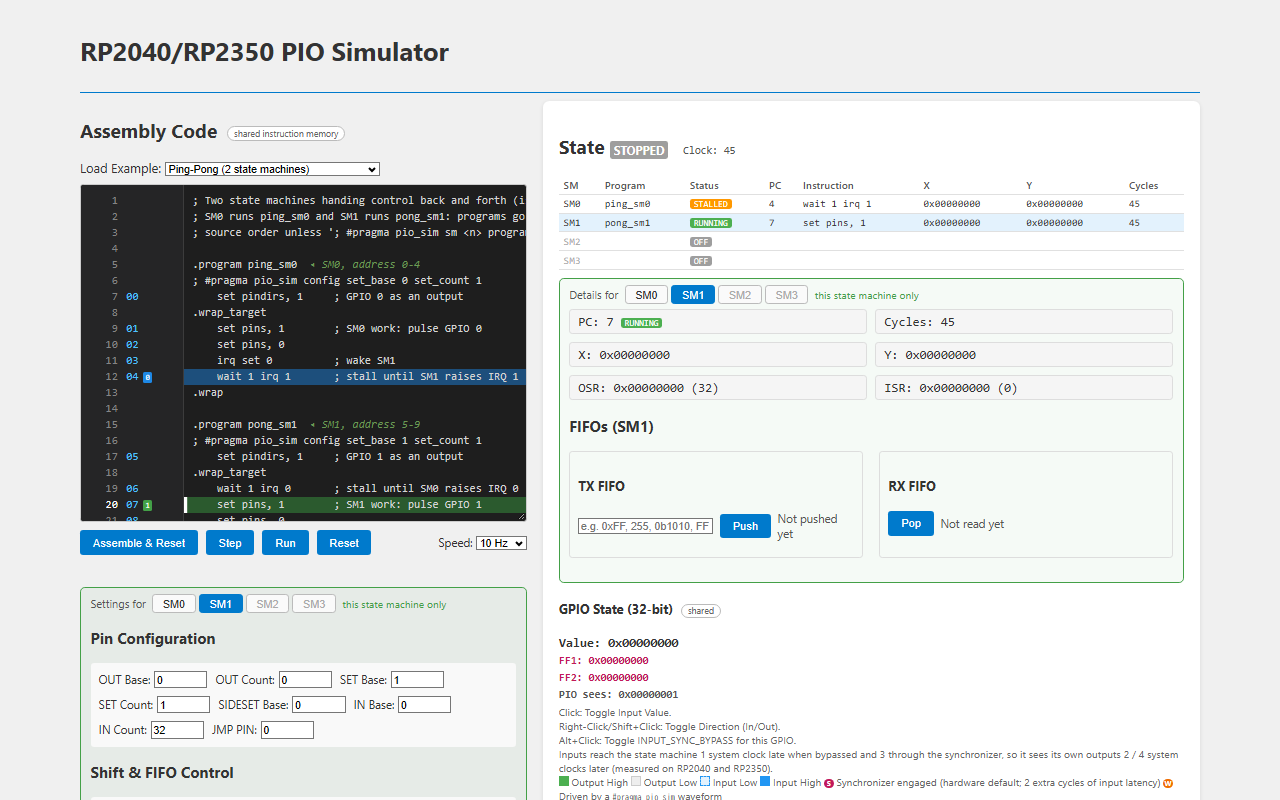
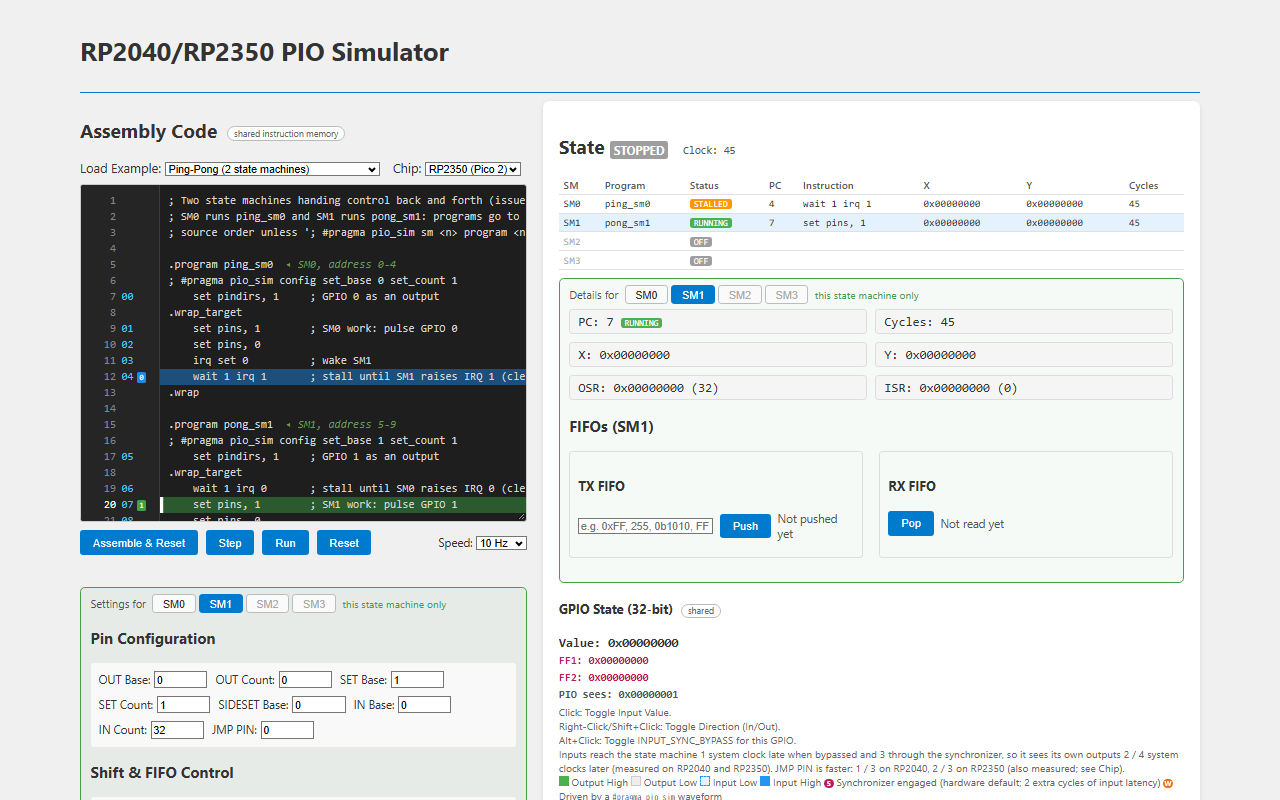
Chip setting for JMP PIN timing; narrower editor gutter
Measured on a Pico and a Pico 2: JMP PIN sees a pin sooner than the other
inputs, and differently per chip. A state machine sees its own output
1 / 3 system clocks later with JMP PIN on RP2040 and 2 / 3 on RP2350
(bypassed / synchronised), against 2 / 4 for IN PINS, WAIT PIN, WAIT
GPIO and WAIT JMPPIN on both. Found when issue #3's JMP PIN watcher
matched on RP2350 but not on RP2040.

- Emulator: `chip` ('rp2040' | 'rp2350'); JMP PIN reads its own input
  path with the measured lag.
- `; #pragma pio_sim chip rp2040|rp2350` and a Chip control next to
  Load Example; RP2350-only features warn when RP2040 is chosen.
- The PC mark column in the editor gutter is as wide as the number of
  running state machines needs, and none for one; the code starts
  further left.
- HARDWARE_VERIFICATION.md: results of the 44 / 53 cases now run, and
  the JMP PIN finding. README and screenshot updated.

diff --git a/pio_emulator.js b/pio_emulator.js
@@ -33,6 +33,16 @@ const PIO_SM_CONFIG_DEFAULTS = {
     clkDiv: 1           // CLKDIV, 16.8 fixed point
 };
 
+// System clocks from a change on the pad to JMP PIN seeing it, with the
+// input synchroniser bypassed / engaged. Measured on a Pico and a Pico 2 (a
+// state machine sees its own output 1 / 3 clocks later with JMP PIN on
+// RP2040, 2 / 3 on RP2350). The other inputs (IN PINS, WAIT PIN/GPIO/
+// JMPPIN, MOV x, PINS) lag 1 / 3 on both chips, so 2 / 4 for own outputs.
+const PIO_JMP_PIN_LAG = {
+    rp2040: { bypassed: 0, synced: 2 },
+    rp2350: { bypassed: 1, synced: 2 }
+};
+
 class PioStateMachine {
     constructor(block, index) {
         this.block = block;
@@ -100,9 +110,12 @@ class PioStateMachine {
     // With a fractional divider it can vary by one cycle with the phase.
     inputLatency() {
         const c = sysclks => Math.max(1, Math.ceil(sysclks / this.clkDiv));
+        const jmp = PIO_JMP_PIN_LAG[this.block.chip];
         return {
             external: { bypassed: c(1), synced: c(3) },
-            own: { bypassed: c(2), synced: c(4) }
+            own: { bypassed: c(2), synced: c(4) },
+            // JMP PIN reads the pin through a shorter path (measured).
+            jmpOwn: { bypassed: c(jmp.bypassed + 1), synced: c(jmp.synced + 1) }
         };
     }
 
@@ -330,7 +343,7 @@ class PioStateMachine {
                 return taken;
             }
             case 'x!=y': return this.x !== this.y;
-            case 'pin': return this.getPinState(this.jmpPin) === 1;
+            case 'pin': return this.block.getJmpPinState(this.jmpPin) === 1;
             case '!osre': return this.osrCount < this.effPullThresh();
             default: return false;
         }
@@ -637,6 +650,9 @@ class PioEmulator {
         // INPUT_SYNC_BYPASS resets to 0: every input passes through the
         // 2-flipflop synchroniser. 1 = bypassed for that GPIO.
         this.inputSyncBypass = 0;
+        // Which chip's timing to follow: 'rp2040' or 'rp2350'. They differ in
+        // how fast JMP PIN sees a pin (PIO_JMP_PIN_LAG).
+        this.chip = 'rp2350';
         this.sms = [0, 1, 2, 3].map(i => new PioStateMachine(this, i));
         this.reset();
     }
@@ -655,6 +671,7 @@ class PioEmulator {
         this.inputsFf1 = 0;
         this.inputsFf2 = 0;
         this.inputsSeen = 0;
+        this.jmpPinSeen = 0;    // what JMP PIN reads (a shorter path)
 
         this.history = [];
         this.irq = 0;
@@ -823,6 +840,13 @@ class PioEmulator {
         return (this.inputsSeen >>> (pin & 0x1F)) & 1;
     }
 
+    // What JMP PIN observes. Measured, it lags the pad less than the other
+    // inputs do, and differently on each chip (PIO_JMP_PIN_LAG). WAIT
+    // JMPPIN, despite the name, uses the ordinary input path.
+    getJmpPinState(pin) {
+        return (this.jmpPinSeen >>> (pin & 0x1F)) & 1;
+    }
+
     // Write `count` bits of `data` to pin levels or directions starting at
     // GPIO `base`, wrapping after GPIO 31 (§11.5.6). State machines run in
     // number order within a cycle, so when several write the same pin on
@@ -938,6 +962,8 @@ class PioEmulator {
         this.inputsFf1 = this.padAt(tn - 1);
         this.inputsFf2 = this.padAt(tn - 2);
         this.inputsSeen = ((this.padAt(tn - 1) & bypass) | (this.padAt(tn - 3) & ~bypass)) >>> 0;
+        const jmp = PIO_JMP_PIN_LAG[this.chip] || PIO_JMP_PIN_LAG.rp2350;
+        this.jmpPinSeen = ((this.padAt(tn - jmp.bypassed) & bypass) | (this.padAt(tn - jmp.synced) & ~bypass)) >>> 0;
 
         this.clock++;
         // Show the level the next step will see.

diff --git a/main.js b/main.js
@@ -53,6 +53,47 @@ const cfgFifoMode = document.getElementById('cfg-fifo-mode');
 const cfgClkDiv = document.getElementById('cfg-clkdiv');
 const cfgClkDivNote = document.getElementById('cfg-clkdiv-note');
 const regSysclk = document.getElementById('reg-sysclk');
+const cfgChip = document.getElementById('cfg-chip');
+const CHIP_KEY = 'pio_sim_chip_v1';
+try {
+    const savedChip = localStorage.getItem(CHIP_KEY);
+    if (savedChip === 'rp2040' || savedChip === 'rp2350') cfgChip.value = savedChip;
+} catch (e) {
+    // localStorage unavailable — keep the default.
+}
+emulator.chip = cfgChip.value;
+cfgChip.addEventListener('change', () => {
+    emulator.chip = cfgChip.value;
+    try { localStorage.setItem(CHIP_KEY, cfgChip.value); } catch (e) { /* ignore */ }
+    if (lastProgram) showWarnings(lastProgram);
+    updateUI();
+});
+
+// Features the RP2040 does not have, in what was assembled.
+function rp2350Only(program) {
+    const found = new Set();
+    for (const instr of program.memory) {
+        if (!instr) continue;
+        if (instr.prev || instr.next) found.add('irq prev/next');
+        if (instr.type === 'WAIT' && instr.source === 'jmppin') found.add('wait jmppin');
+        if (instr.type === 'MOV' && instr.dest === 'pindirs') found.add('mov pindirs');
+        if (instr.type === 'MOV' && (instr.dest === 'rxfifo' || instr.src === 'rxfifo')) found.add('mov rxfifo[]');
+    }
+    for (const c of program.smConfigs) {
+        if (!c) continue;
+        if (c.statusSel === 2) found.add('mov status on an IRQ flag');
+        if (['txput', 'txget', 'putget'].includes(c.fifoMode)) found.add(`.fifo ${c.fifoMode}`);
+        if (c.inCount !== undefined && c.inCount !== 32) found.add('IN_COUNT');
+    }
+    return [...found];
+}
+
+function showWarnings(program) {
+    const lines = program.warnings.map(w => `Line ${w.line}: warning: ${w.message}`);
+    const only = cfgChip.value === 'rp2040' ? rp2350Only(program) : [];
+    if (only.length) lines.push(`warning: Chip is RP2040, but the program uses RP2350 features: ${only.join(', ')}`);
+    warningMessage.textContent = lines.join('\n');
+}
 const latencyNote = document.getElementById('latency-note');
 const cfgInShiftDir = document.getElementById('cfg-in-shift-dir');
 const cfgOutShiftDir = document.getElementById('cfg-out-shift-dir');
@@ -566,6 +607,7 @@ function updateClkDivNote() {
     const who = multiSm() ? `SM${sel}, ` : '';
     const text = `With ${who}clock div ${sm.clkDiv}: an input change is seen ${l.external.bypassed} / ${l.external.synced} ` +
         `cycles later (bypassed / synchronized), the program's own output ${l.own.bypassed} / ${l.own.synced} cycles later` +
+        ` (JMP PIN: ${l.jmpOwn.bypassed} / ${l.jmpOwn.synced})` +
         (frac ? ' (± 1 with a fractional divider)' : '') + '.';
     cfgClkDivNote.textContent = text;
     cfgClkDivNote.style.display = '';
@@ -665,7 +707,11 @@ function assembleAndReset() {
         }
         // Addresses in the gutter; breakpoints stay on their source lines.
         codeView.setAssembly(program);
-        warningMessage.textContent = program.warnings.map(w => `Line ${w.line}: warning: ${w.message}`).join('\n');
+        if (program.chip) {
+            cfgChip.value = program.chip;
+            emulator.chip = program.chip;
+        }
+        showWarnings(program);
         codeView.setWarnings(program.warnings.map(w => w.line));
 
         applyProgramConfig(program);

diff --git a/index.html b/index.html
@@ -191,6 +191,7 @@
                     <code>status_sel</code> (<code>tx</code>, <code>rx</code>, <code>irq</code>), <code>status_n</code>,
                     <code>fifo</code> (<code>txrx</code>, <code>tx</code>, <code>rx</code>, <code>txput</code>, <code>txget</code>, <code>putget</code>),
                     <code>clkdiv</code> (1-65535, e.g. <code>2.5</code>).
+                    <code>; #pragma pio_sim chip rp2040</code> (or <code>rp2350</code>) selects the chip whose timing to follow.
                     Settings the source does not name keep whatever the controls show.
                     Before the first <code>.program</code> a <code>config</code> line applies to every state machine;
                     inside a program, to the state machines running it; <code>config sm &lt;n&gt; ...</code> to that one only.
@@ -223,6 +224,11 @@
                         <option value="irq_handshake">IRQ Handshake (#pragma pio_sim irq)</option>
                         <option value="pingpong">Ping-Pong (2 state machines)</option>
                         <option value="shared_program">One program on 3 state machines (irq rel)</option>
+                    </select>
+                    <label style="margin-left: 12px;" title="Whose timing to follow. The chips differ in how fast JMP PIN sees a pin (measured). A '; #pragma pio_sim chip rp2040' line in the source sets this on Assemble.">Chip:</label>
+                    <select id="cfg-chip">
+                        <option value="rp2350">RP2350 (Pico 2)</option>
+                        <option value="rp2040">RP2040 (Pico)</option>
                     </select>
                 </div>
                 <textarea id="code-editor" spellcheck="false">
@@ -461,6 +467,7 @@
                         Alt+Click: Toggle INPUT_SYNC_BYPASS for this GPIO.<br>
                         Inputs reach the state machine 1 system clock late when bypassed and 3 through the
                         synchronizer, so it sees its own outputs 2 / 4 system clocks later (measured on RP2040 and RP2350).
+                        JMP PIN is faster: 1 / 3 on RP2040, 2 / 3 on RP2350 (also measured; see Chip).
                         <span id="latency-note"></span>
                         <br>
                         <span

diff --git a/pio_assembler.js b/pio_assembler.js
@@ -154,6 +154,7 @@ class PioAssembler {
         this.globalSymbols = new Map(); // name -> { isLabel, expr, line, resolving }
         this.globalPragmas = [];
         this.warnings = [];             // [{ line, message }]: assembled anyway
+        this.chip = null;               // from `; #pragma pio_sim chip`
         this.states = [];               // finished programs
         this.inProgram = false;
         this.defaultPioVersion = 1;
@@ -1003,6 +1004,7 @@ class PioAssembler {
             stimuli,
             irqEvents,
             warnings: this.warnings,
+            chip: this.chip,
             programMap: result[0].programMap,
             programs: result,
             memory,
@@ -1238,8 +1240,18 @@ class PioAssembler {
             case 'irq': this.pragmaIrq(tokens, out.irqEvents); break;
             case 'config': this.pragmaConfig(tokens, out.config, out.configSeen, out); break;
             case 'sm': this.pragmaSm(tokens, out.smAssign); break;
+            case 'chip': {
+                // chip rp2040|rp2350: whose timing to follow.
+                const chip = (tokens[1] || '').toLowerCase();
+                if (!['rp2040', 'rp2350'].includes(chip) || tokens.length !== 2) {
+                    throw new Error(`#pragma pio_sim: expected 'chip rp2040' or 'chip rp2350'`);
+                }
+                if (this.chip && this.chip !== chip) throw new Error(`#pragma pio_sim: chip given twice`);
+                this.chip = chip;
+                break;
+            }
             default:
-                throw new Error(`#pragma pio_sim: unknown pragma '${tokens[0] || ''}' (expected pin, irq, config or sm)`);
+                throw new Error(`#pragma pio_sim: unknown pragma '${tokens[0] || ''}' (expected pin, irq, config, sm or chip)`);
         }
     }
 

diff --git a/code_view.js b/code_view.js
@@ -134,6 +134,10 @@ class CodeView {
     // Each running state machine's PC, and the selected one's.
     setPcs(marks, selectedSm, follow) {
         this.pcMarks = marks.map(m => ({ sm: m.sm, line: this.addrToLine.get(m.pc) })).filter(m => m.line !== undefined);
+        // The PC mark column is as wide as the marks it may need: one per
+        // running state machine, none with a single one.
+        const slots = marks.length > 1 ? marks.length : 0;
+        this.gutter.style.setProperty('--pcs-width', slots ? `${slots * 12 + 4}px` : '0px');
         const sel = this.pcMarks.find(m => m.sm === selectedSm);
         this.pcLine = sel ? sel.line : null;
         this.renderMarks();

diff --git a/style.css b/style.css
@@ -105,19 +105,20 @@ header {
 }
 
 .g-line {
-    width: 30px;
+    width: 28px;
     text-align: right;
 }
 
 .g-addr {
-    width: 26px;
+    width: 22px;
     text-align: right;
     color: #4fc1ff;
 }
 
 .g-pcs {
-    width: 50px;
-    padding-left: 6px;
+    width: var(--pcs-width, 0px);
+    padding-left: 4px;
+    box-sizing: content-box;
 }
 
 .g-row.pc .g-line {

diff --git a/HARDWARE_VERIFICATION.md b/HARDWARE_VERIFICATION.md
@@ -16,52 +16,63 @@ Each case below is a short program aimed at one behaviour. A case "matches" only
 
 ## Results
 
-On the current code, all cases match on both chips. Cases marked RP2350 use features the RP2040 does not have.
+On the current code, all cases match on both chips: 44 on RP2040, 53 on RP2350 (2026-11-17). Cases marked RP2350 use features the RP2040 does not have. The simulator is set to the chip it is compared with.
 
 | # | Case | RP2040 | RP2350 |
 |---|---|---|---|
-| 1 | Side-set beats SET on the same pin | match | match |
-| 2 | Side-set beats OUT; OUT writes OUT_COUNT pins, zero-extended | match | match |
+| 1 | Sideset beats SET on the same pin | match | match |
+| 2 | Sideset beats OUT; OUT writes OUT_COUNT pins, zero-extended | match | match |
 | 3 | OUT_COUNT 0 writes no pins (OUT and MOV) | match | match |
 | 4 | MOV PINS writes OUT_COUNT pins | match | match |
 | 5 | SET_COUNT 0 writes no pins or directions | match | match |
 | 6 | Autopull: refill stall and free refill, threshold 16 | match | match |
 | 7 | Autopull: no pull on the cycle of MOV OSR | match | match |
-| 8 | Autopull: background refill on non-OUT cycles; PULL is a fence | match | match |
-| 9 | Autopush: push at the threshold, stall when RX is full | match | match |
-| 10 | PULL/PUSH variants (noblock, ifempty, iffull); `jmp x--` always decrements | match | match |
-| 11 | IRQ on itself: set, `wait 1 irq` clears, clear | match | match |
-| 12 | IRQ from a partner state machine, and the IRQ pragma's timing | match | match |
-| 13 | Delay cycles start after a stall clears | match | match |
-| 14 | A state machine sees its own output 4 clocks later, synchroniser engaged | match | match |
-| 15 | JMP PIN does not see the same instruction's side-set | match | match |
-| 16 | Wrap: a taken JMP at the wrap top ignores wrap | match | match |
-| 17 | OUT EXEC / MOV EXEC timing | match | match |
-| 18 | MOV STATUS on the TX FIFO level | match | match |
-| 19 | `.fifo tx`: 8-deep TX FIFO | match | match |
-| 20 | `.fifo rx`: 8-deep RX FIFO, PUSH stalls when full | match | match |
-| 21 | Clock divider 2: own output seen 1 cycle later (bypassed) | match | match |
-| 22 | Clock divider 3: own output seen 2 cycles later (synchronised) | match | match |
-| 23 | Clock divider 2.5 from `.clock_div`, synchronised loopback | match | match |
-| 24 | Clock divider 1.5: fractional period pattern | match | match |
-| 25 | Clock divider 1.25: fractional period pattern | match | match |
-| 26 | Several SMs: ping/pong handshake (issue #3) | match | match |
-| 27 | Several SMs: same pin, same cycle, the highest SM wins | match | match |
-| 28 | Several SMs: `irq rel` on one program, three SMs | match | match |
-| 29 | Several SMs: IRQ between clock dividers 1 and 3 | match | match |
-| 30 | Several SMs: three dividers on one time line (1, 3, 2.5) | match | match |
-| 31 | Several SMs: two SMs wait on one flag | match | match |
-| 32 | Several SMs: IRQ set and clear on the same cycle | match | match |
-| 33 | Several SMs: third SM watches a pin with JMP PIN (issue #3) | pending | pending |
-| 34 | Several SMs: per-SM FIFOs and registers | match | match |
-| 35 | MOV PINDIRS (RP2350) | - | match |
-| 36 | IN_COUNT masks IN, MOV and WAIT PIN (RP2350) | - | match |
-| 37 | MOV STATUS on an IRQ flag (RP2350) | - | match |
-| 38 | WAIT JMPPIN with an offset (RP2350) | - | match |
-| 39 | put: `mov rxfifo[]` (RP2350) | - | match |
-| 40 | get: `mov osr, rxfifo[]` (RP2350) | - | match |
-
-"Pending" means the case was added after the last run on the boards.
+| 8 | Autopull: background refill on non-OUT cycles, PULL is a fence | match | match |
+| 9 | Autopush: push at threshold, stall when RX full | match | match |
+| 10 | PULL/PUSH variants, jmp x-- always decrements | match | match |
+| 11 | IRQ on itself: set, wait 1 clears, clear | match | match |
+| 12 | IRQ from a partner state machine (pragma timing) | match | match |
+| 13 | Delay starts after a stall clears | match | match |
+| 14 | Own output, synchroniser engaged (4 cycles) | match | match |
+| 15 | JMP PIN does not see its own side-set | match | match |
+| 16 | Wrap: taken JMP at wrap top ignores wrap | match | match |
+| 17 | OUT EXEC and MOV EXEC timing, delay before the executee | match | match |
+| 18 | MOV STATUS on TX FIFO level | match | match |
+| 19 | .fifo tx: 8-deep TX FIFO | match | match |
+| 20 | .fifo rx: 8-deep RX FIFO, push stalls when full | match | match |
+| 21 | Latency of jmp pin, synchroniser bypassed | match | match |
+| 22 | Latency of wait gpio, synchroniser bypassed | match | match |
+| 23 | Latency of in pins, synchroniser bypassed | match | match |
+| 24 | Latency of jmp pin, synchroniser engaged | match | match |
+| 25 | Latency of wait gpio, synchroniser engaged | match | match |
+| 26 | Latency of in pins, synchroniser engaged | match | match |
+| 27 | Latency of jmp pin, clkdiv 2, synchroniser bypassed | match | match |
+| 28 | Latency of jmp pin, clkdiv 3, synchroniser bypassed | match | match |
+| 29 | Latency of jmp pin, clkdiv 2, synchroniser engaged | match | match |
+| 30 | Latency of jmp pin, clkdiv 3, synchroniser engaged | match | match |
+| 31 | Latency of wait jmppin (RP2350), synchroniser bypassed | - | match |
+| 32 | Latency of wait jmppin (RP2350), synchroniser engaged | - | match |
+| 33 | Latency of wait jmppin vs jmp pin, side by side (RP2350) | - | match |
+| 34 | Clkdiv 2: own output seen 1 cycle later (bypassed) | match | match |
+| 35 | Clkdiv 3: own output seen 2 cycles later (synchronised) | match | match |
+| 36 | Clkdiv 2.5 via .clock_div: synchronised loopback | match | match |
+| 37 | Clkdiv 1.5: fractional period pattern | match | match |
+| 38 | Clkdiv 1.25: fractional period pattern | match | match |
+| 39 | Several SMs: ping/pong handshake from issue #3 | match | match |
+| 40 | Several SMs: same pin, same cycle, highest SM wins | match | match |
+| 41 | Several SMs: irq rel on one program, three SMs | match | match |
+| 42 | Several SMs: IRQ across clock dividers (1 and 3) | match | match |
+| 43 | Several SMs: three dividers on one time line (1, 3, 2.5) | match | match |
+| 44 | Several SMs: two SMs wait on one flag | match | match |
+| 45 | Several SMs: IRQ set and clear on the same cycle | match | match |
+| 46 | Several SMs: issue #3 example, third SM watches a pin with JMP PIN | match | match |
+| 47 | Several SMs: per-SM FIFOs and registers | match | match |
+| 48 | MOV PINDIRS (RP2350) | - | match |
+| 49 | IN_COUNT masks IN, MOV and WAIT PIN (RP2350) | - | match |
+| 50 | MOV STATUS on an IRQ flag (RP2350) | - | match |
+| 51 | WAIT JMPPIN with offset (RP2350) | - | match |
+| 52 | Put: MOV RXFIFO[] (RP2350) | - | match |
+| 53 | Get: MOV OSR, RXFIFO[] (RP2350) | - | match |
 
 Separately, the loopback delay was measured with MicroPython for clock dividers 1, 2, 3, 4, 5 and 8 (see below).
 
@@ -71,8 +82,16 @@ The simulator follows the chips.
 
 - **Delay on an EXEC instruction.** The datasheet says the delay of `out exec` / `mov exec` is ignored. On both chips it is not: `out exec, 16 [5]` runs the executed instruction 5 cycles later.
 - **IRQ set and clear on the same cycle.** The datasheet does not say what happens when one state machine sets a flag and another clears it on the same cycle. On both chips the set wins.
-- **Input latency on RP2350.** The RP2350 datasheet gives no cycle count for a state machine seeing its own output ("Improved GPIO input/output delay and skew" refers to analog timing). Measured, it is the same as the RP2040 datasheet states: 2 system clocks with the input synchroniser bypassed, 4 with it engaged.
-- **Input latency with a clock divider.** The datasheets do not say this either. The input path runs on the system clock, not the state machine clock, so counted in state machine cycles the latency gets shorter as the divider grows. Both chips measured the same:
+- **Input latency.** The RP2350 datasheet gives no cycle count for a state machine seeing its own output, and the RP2040 one gives 2 system clocks with the input synchroniser bypassed and 4 with it engaged. Measured, that holds on both chips for IN PINS, WAIT PIN, WAIT GPIO, MOV x, PINS and, on RP2350, WAIT JMPPIN.
+- **JMP PIN is faster, and differs between the chips.** Neither datasheet says so. Measured, JMP PIN sees a state machine's own output sooner than the other inputs do, and not by the same amount on both chips:
+
+  | Own output seen by | RP2040 bypassed / synchronised | RP2350 bypassed / synchronised |
+  |---|---|---|
+  | IN PINS, WAIT PIN, WAIT GPIO, WAIT JMPPIN | 2 / 4 system clocks | 2 / 4 |
+  | JMP PIN | 1 / 3 | 2 / 3 |
+
+  This is why the simulator has a Chip setting (and `; #pragma pio_sim chip rp2040`). It was found when issue #3's example, a third state machine watching another's pin with JMP PIN, matched on RP2350 but not on RP2040.
+- **Input latency with a clock divider.** The datasheets do not say this either. The input path runs on the system clock, not the state machine clock, so counted in state machine cycles the latency gets shorter as the divider grows (JMP PIN too). Both chips measured the same for IN PINS:
 
   | Clock divider | Bypassed | Synchronised |
   |---|---|---|
@@ -88,8 +107,8 @@ The simulator follows the chips.
 
 **Follows the datasheets and `pioasm`, not yet checked on hardware:**
 
-- Inputs driven from outside the chip. The input path has been checked only for a state machine reading its own outputs; `#pragma pio_sim pin` waveforms rely on the same model.
-- `wait gpio`, IN_BASE wrapping past GPIO 31, `in` from STATUS, MOV STATUS on the RX FIFO level, `jmp !osre`, `mov pc` / `out pc`, side-set to pin directions.
+- Inputs driven from outside the chip. The input path has been checked only for state machines reading outputs of the same PIO block; `#pragma pio_sim pin` waveforms rely on the same model, taking a pin change from outside as one system clock earlier than an output write reaching the pad.
+- IN_BASE wrapping past GPIO 31, `in` from STATUS, MOV STATUS on the RX FIFO level, `jmp !osre`, `mov pc` / `out pc`, side-set to pin directions.
 - The assembler, which follows `pioasm`'s grammar. Its instruction encoding is checked against the headers `pioasm` generates for the pico-examples programs, and every program in pico-examples, pico-extras and the pioasm tests assembles.
 
 **Not simulated:**

diff --git a/README.md b/README.md
@@ -32,6 +32,7 @@ The emulator follows the PIO chapters of the RP2040 and RP2350 datasheets, and t
 
 - **Settings start at the hardware reset values.** In particular OUT Count is 0, so `out pins` writes nothing until you set it, as on a real chip before the C setup code runs. Set the controls the way your `sm_config_*` calls would, or put the settings in the source with `.in` / `.out` / `.set` / `.fifo` / `.mov_status` or a `config` pragma.
 - **Input latency.** A pin reaches the state machine 1 system clock late when its synchronizer is bypassed and 3 through the 2-flipflop synchronizer (the reset default). A state machine sees its own outputs 2 / 4 system clocks later, the same on RP2040 and RP2350.
+- **JMP PIN and the Chip setting.** JMP PIN sees a pin sooner than the other inputs, and differently on each chip: a state machine's own output 1 / 3 system clocks later on RP2040, 2 / 3 on RP2350 (measured; the datasheets do not say). Choose the chip next to "Load Example", or put `; #pragma pio_sim chip rp2040` in the source. With RP2040 chosen, RP2350-only features give a warning.
 - **Clock divider.** One step is one state machine cycle. With a divider (the "Clock div" control, `.clock_div`, or `config clkdiv`), the input path still runs on the system clock, so input latency counted in state machine cycles gets shorter: at 2 the program sees its own output 1 / 2 cycles later, at 4 and above 1 / 1. Fractional dividers spread the extra clocks with a running total, as the hardware does.
 - **Pins that are not outputs.** Writing a pin with SET/OUT/MOV/side-set changes PIO's output register, but the pin only follows once it is an output (`set pindirs`, `out pindirs`, side-set `pindirs`, or Shift+click in the GPIO panel). The timing chart draws a pin PIO drives in green, an input in blue (the level on the pin), and a value written but not driven as a dashed line.
 - **Pin writes.** OUT and MOV write OUT Count pins, SET writes SET Count pins, and a side-set wins over an OUT/SET to the same pin on the same cycle. When several state machines write a pin on the same cycle, the highest-numbered one wins.
@@ -100,6 +101,8 @@ Syntax: `config <name> <value> [<name> <value> ...]`
 | `status_n` | 0-31 |
 | `fifo` | `txrx`, `tx`, `rx`, `txput`, `txget`, `putget` |
 | `clkdiv` | 1-65535, fractions such as `2.5` allowed (1/256 steps) |
+
+`; #pragma pio_sim chip rp2040` (or `rp2350`) selects the chip whose timing to follow, as the Chip control does.
 
 Settings the source does not name keep whatever the controls show. A `config` pragma overrides a directive (`.out`, `.in`, ...) that sets the same thing.
 
